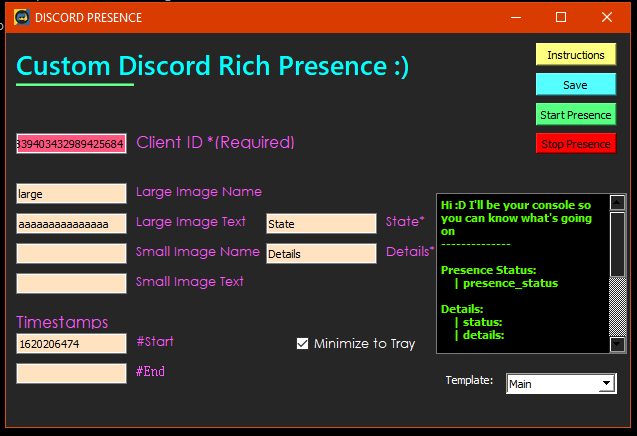
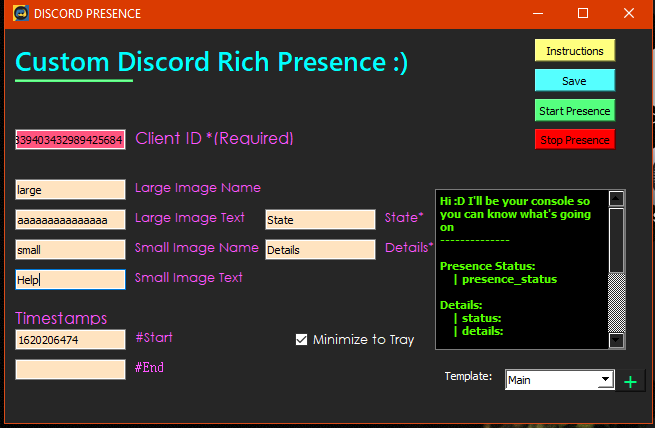
Updated readme

Changed region(s): [[0.0, 0.0, 1.0, 1.0]]

diff --git a/README.md b/README.md
@@ -19,7 +19,7 @@ ____
 
 * Added Minimize to System Tray functionality.
 * Added Reload Button. 
-* Added data console thingy. (Shows what you've entered...)
+* Added templates!
 
 **So how do I use this?**
 
@@ -51,9 +51,9 @@ Install the application anywhere you like using the installer. Go to the directo
 * Hit save. Also, when you enter your information and hit start presence, it'll automatically save it too. The save button is an alternative.
 
 > How do I create multiple saves?
-* You can create them by going inside the templates folder in the installation directory. Name it whatever you want but make sure you save the file in json format. There is a  _example_.json for your reference.
+* Click on the plus button and enter your new template name. Hit Ok and you can save changes by going into that template and clicking the save button. (Made it easier in V1.2)
 
-* Once you click save, with your template selected from the drop down, it'll save to that template.
+* When you click save, with your template selected from the drop down, it'll save to that template.
 
 * Also, the application would start in the 'Main' template selected the next time you open it.
 
